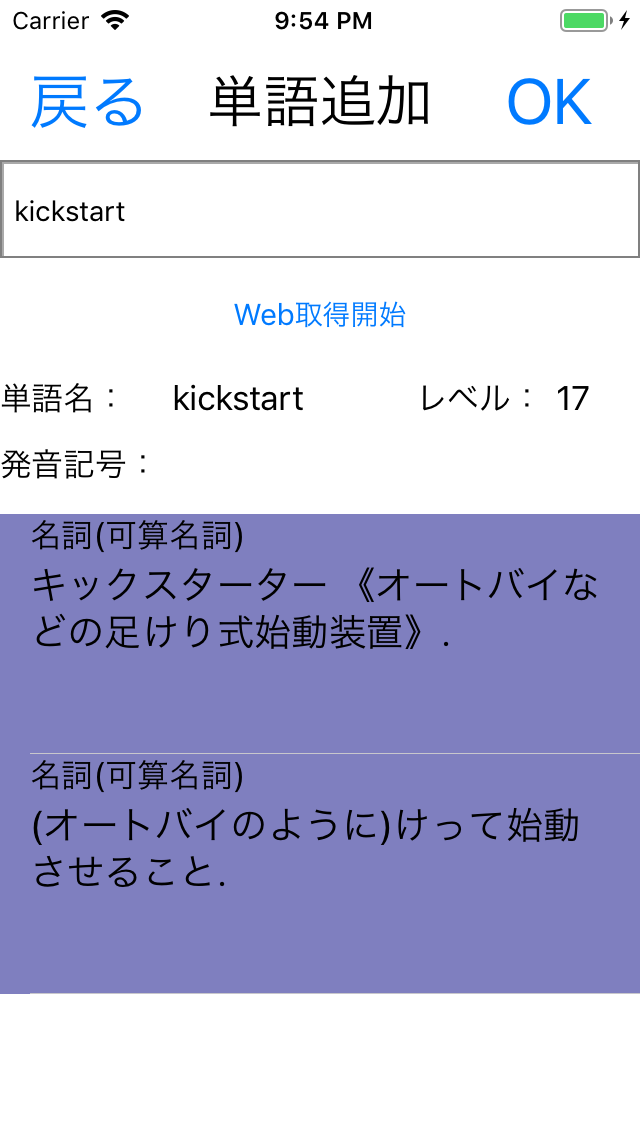
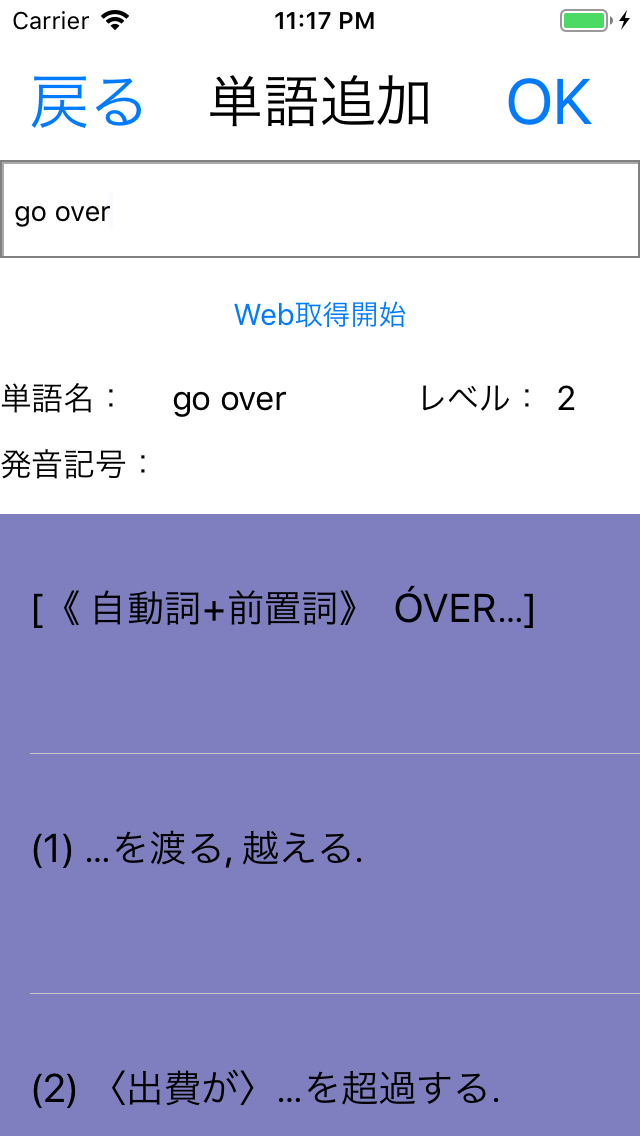
単語追加(Web)画面で熟語を登録可能にした（でも取得結果がなんかおかしい・・？）

diff --git a/EnglishWords/EnglishWords/AddWordFromWebViewController.swift b/EnglishWords/EnglishWords/AddWordFromWebViewController.swift
@@ -193,8 +193,12 @@ class AddWordFromWebViewController: UIViewController, UITextFieldDelegate, UITab
     }
     
     func scrapeWebsite(wordName: String) {
+        //入力されたテキストをtrim、また文中にスペース(=熟語)があったらそれを"+"にする
+        var inputWord = wordName.trimmingCharacters(in: .whitespaces)
+        inputWord = inputWord.replacingOccurrences(of: " ", with: "+")
+        
         //GETリクエスト 指定URLのコードを取得
-        let fqdn = "https://ejje.weblio.jp/content/" + wordName
+        let fqdn = "https://ejje.weblio.jp/content/" + inputWord
         Alamofire.request(fqdn).responseString { response in
             print("\(response.result.isSuccess)")
             
